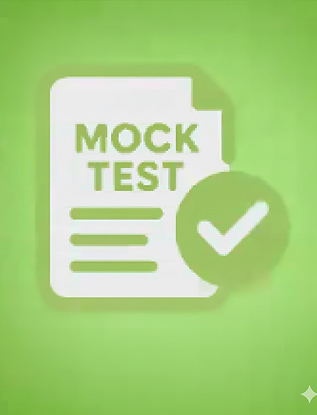
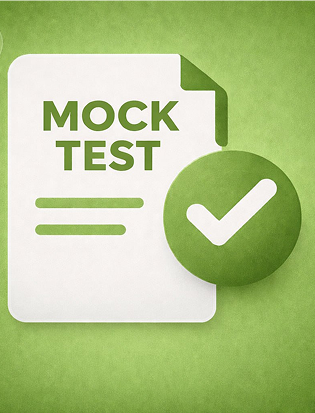
image added

diff --git a/src/components/studentDashboard/TestSection.jsx b/src/components/studentDashboard/TestSection.jsx
@@ -1,30 +1,34 @@
 import { ImageAssets } from "@/lib/ImageProvider";
-import React from "react";  
+import React from "react";
 
 const TestCard = ({ title, count, colorClass, imagePlaceholder }) => {
   return (
     <div
-      className={`relative ${colorClass} rounded-3xl h-[180px] sm:h-[260px] xl:h-[320px] w-full overflow-hidden group cursor-pointer transition-transform hover:scale-[1.02] duration-300 shadow-xl`}
+      className={`relative ${colorClass} rounded-3xl h-[180px] sm:h-[260px] xl:h-[320px] w-full overflow-hidden group cursor-pointer transition-all duration-500 hover:scale-[1.03] hover:shadow-2xl hover:shadow-white/10`}
     >
+      {/* Shine effect */}
+      <div className="absolute inset-0 bg-gradient-to-r from-transparent via-white/20 to-transparent -translate-x-full group-hover:translate-x-full transition-transform duration-1000 ease-in-out z-30"></div>
+
       {/* Ai Badge */}
-      <div className="absolute top-4 left-4 bg-white/20 backdrop-blur-sm w-10 h-10 rounded-full flex items-center justify-center z-20 border border-white/10">
+      <div className="absolute top-4 left-4 bg-white/20 backdrop-blur-sm w-10 h-10 rounded-full flex items-center justify-center z-20 border border-white/10 group-hover:scale-110 transition-transform duration-300">
         <span className="text-white font-medium text-sm">Ai</span>
       </div>
 
-      {/* 3D Avatar Placeholder - Replace 'src' with your actual 3D images */}
+      {/* 3D Avatar Placeholder */}
       <div className="absolute inset-0 flex items-center justify-center pt-8">
-        {/* Using a colored div to simulate the 3D character for now */}
-        <div className="w-48 h-48 rounded-full bg-white/10 blur-3xl absolute top-1/2 left-1/2 transform -translate-x-1/2 -translate-y-1/2"></div>
+        <div className=" rounded-full bg-white/10 blur-3xl absolute top-1/2 left-1/2 transform -translate-x-1/2 -translate-y-1/2 group-hover:bg-white/20 transition-colors duration-500"></div>
         <img
           src={imagePlaceholder}
           alt={title}
-          className=" object-contain relative z-10 drop-shadow-2xl w-full "
+          className="object-cover w-full relative z-10 drop-shadow-2xl group-hover:scale-110 transition-transform duration-500"
         />
       </div>
 
       {/* Glassmorphism Label */}
-      <div className="absolute bottom-4 left-4 right-4 bg-white/20 backdrop-blur-md border border-white/30 rounded-2xl p-2 sm:p-4 text-center z-20 shadow-lg">
-        <h3 className="text-white font-bold sm:text-xl tracking-wide">{title}</h3>
+      <div className="absolute bottom-4 left-4 right-4 bg-white/20 backdrop-blur-md border border-white/30 rounded-2xl p-2 sm:p-4 text-center z-20 shadow-lg group-hover:bottom-6 transition-all duration-500">
+        <h3 className="text-white font-bold sm:text-xl tracking-wide">
+          {title}
+        </h3>
         <p className="text-white/90 text-xs mt-1">Test Takers {count}</p>
       </div>
     </div>
@@ -32,14 +36,14 @@ const TestCard = ({ title, count, colorClass, imagePlaceholder }) => {
 };
 
 const SectionHeader = ({ logoText, logoColor }) => (
-  <div className="flex items-center gap-4 mb-8">
+  <div className="flex items-center gap-4 mb-8 group cursor-default">
     <div
-      className={`w-12 h-12 bg-custom rounded-xl flex items-center justify-center shadow-md`}
+      className={`w-12 h-12 bg-custom rounded-xl flex items-center justify-center shadow-md group-hover:scale-110 group-hover:rotate-3 transition-transform duration-300`}
     >
       <span className="text-white font-bold text-xl">{logoText.charAt(0)}</span>
     </div>
-    <div className="border-l-2 border-gray-300 pl-4 h-10 flex flex-col justify-center">
-      <h2 className="text-2xl font-bold text-gray-800 dark:text-white leading-none">
+    <div className="border-l-2 border-gray-300 dark:border-gray-700 pl-4 h-10 flex flex-col justify-center group-hover:border-Primary transition-colors duration-300">
+      <h2 className="text-2xl font-bold text-gray-800 dark:text-white leading-none group-hover:text-Primary transition-colors duration-300">
         {logoText}
       </h2>
       <div className="flex items-center gap-2 mt-1">
@@ -79,7 +83,6 @@ const TestSection = () => {
       placeholder: ImageAssets.speaking, // Replace with Speaking Avatar
       count: "65000+",
     },
-
   ];
   const PTE = [
     {
@@ -100,12 +103,10 @@ const TestSection = () => {
       placeholder: ImageAssets.ptelisten, // Replace with Listening Avatar
       count: "65000+",
     },
-
   ];
 
-
   return (
-    <div  className=" relative z-10 grid md:grid-cols-2 gap-5 ">
+    <div className=" relative z-10 grid md:grid-cols-2 gap-5 ">
       {/* Section 1: IELTS */}
       <section className="bg-white/20 dark:bg-gray-900 backdrop-blur-md border border-white/30 dark:border-gray-800 rounded-2xl p-2 sm:p-4">
         <SectionHeader logoText="IELTS" logoColor="bg-blue-600" />
@@ -125,7 +126,7 @@ const TestSection = () => {
       {/* Section 2: PTE */}
       <section className="bg-white/20 dark:bg-gray-900 backdrop-blur-md border border-white/30 dark:border-gray-800 rounded-2xl p-2 sm:p-4">
         <SectionHeader logoText="PTE" logoColor="bg-blue-500" />
-         <div className="grid grid-cols-2  gap-3 lg:gap-6">
+        <div className="grid grid-cols-2  gap-3 lg:gap-6">
           {PTE?.map((card, index) => (
             <TestCard
               key={`pte-${index}`}

diff --git a/src/components/homeComponents/TestDashboard.jsx b/src/components/homeComponents/TestDashboard.jsx
@@ -11,8 +11,10 @@ const TestCard = ({ title, count, colorClass, imagePlaceholder }) => {
     <div
       className={`relative ${colorClass} rounded-3xl h-[180px] sm:h-[260px] xl:h-[320px] w-full overflow-hidden group cursor-pointer transition-transform hover:scale-[1.02] duration-300 shadow-xl`}
     >
+            {/* Shine effect */}
+      <div className="absolute inset-0 bg-gradient-to-r from-transparent via-white/20 to-transparent -translate-x-full group-hover:translate-x-full transition-transform duration-1000 ease-in-out z-30"></div>
       {/* Ai Badge */}
-      <div className="absolute top-4 left-4 bg-white/20 backdrop-blur-sm w-10 h-10 rounded-full flex items-center justify-center z-20 border border-white/10">
+      <div className="absolute top-4 left-4 bg-white/20 backdrop-blur-sm w-10 h-10 rounded-full flex items-center justify-center z-20 border border-white/10 group-hover:scale-110 transition-transform duration-300">
         <span className="text-white font-medium text-sm">Ai</span>
       </div>
 
@@ -23,7 +25,7 @@ const TestCard = ({ title, count, colorClass, imagePlaceholder }) => {
         <img
           src={imagePlaceholder}
           alt={title}
-          className=" object-contain relative z-10 drop-shadow-2xl w-full "
+          className=" object-contain relative z-10 drop-shadow-2xl w-full hover:scale-110 transition-transform duration-500 group-hover:scale-110"
         />
       </div>
 

diff --git a/src/pages/ieltsPage/IELTSPage.jsx b/src/pages/ieltsPage/IELTSPage.jsx
@@ -56,12 +56,12 @@ const IELTSPage = () => {
 
       {/* Full Test Banner */}
       <Link to="/ielts/full-test" className="group block w-full">
-        <div className="p-6 md:p-10 rounded-2xl md:rounded-3xl bg-[#E2E2E2] hover:bg-gray-200 transition-all duration-300 flex flex-col md:flex-row items-center md:items-center justify-between gap-6 relative overflow-hidden shadow-sm hover:shadow-md">
+        <div className="p-6 md:p-10 rounded-2xl md:rounded-3xl bg-[#E2E2E2] dark:bg-[#1E1E1E] dark:hover:bg-[#2B2B2B] hover:bg-gray-200 transition-all duration-300 flex flex-col md:flex-row items-center md:items-center justify-between gap-6 relative overflow-hidden shadow-sm hover:shadow-md">
           <div className="z-10 text-center md:text-left">
-            <h1 className="text-3xl md:text-4xl lg:text-5xl font-bold text-[#334156] transition-colors leading-tight">
+            <h1 className="text-3xl md:text-4xl lg:text-5xl font-bold text-[#334156] dark:text-white transition-colors leading-tight">
               Full Test
             </h1>
-            <p className="text-gray-500 mt-2 font-medium md:text-lg">
+            <p className="text-gray-500 mt-2 font-medium md:text-lg dark:text-white">
               Take a complete mock exam
             </p>
           </div>
